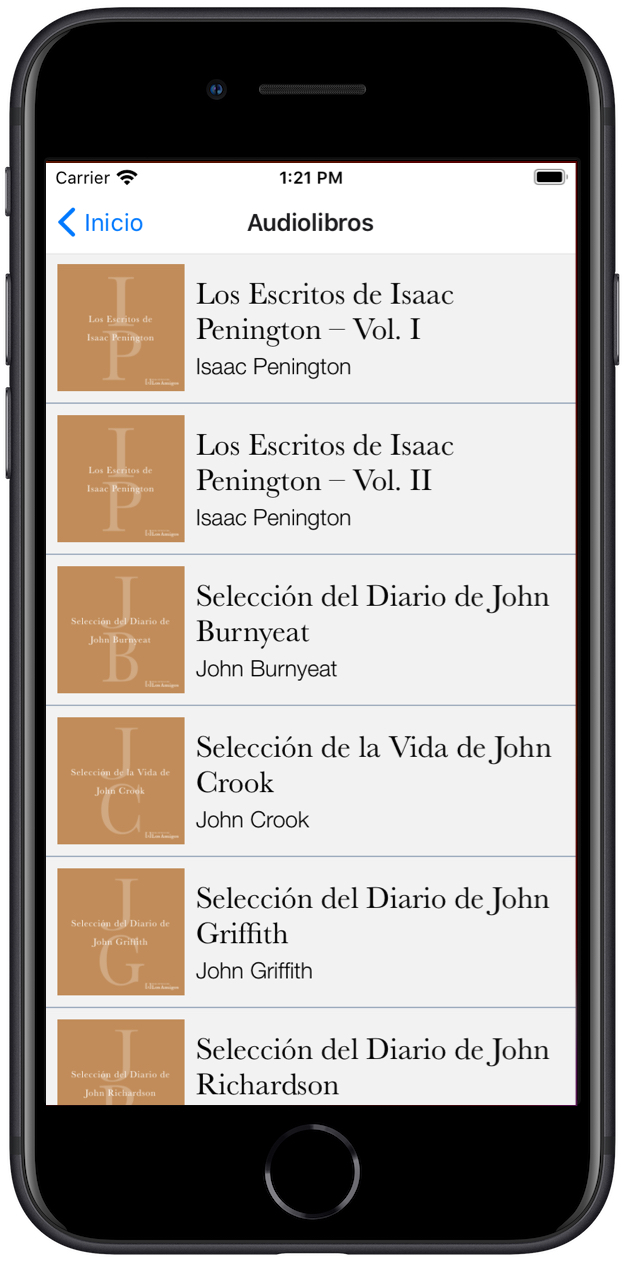
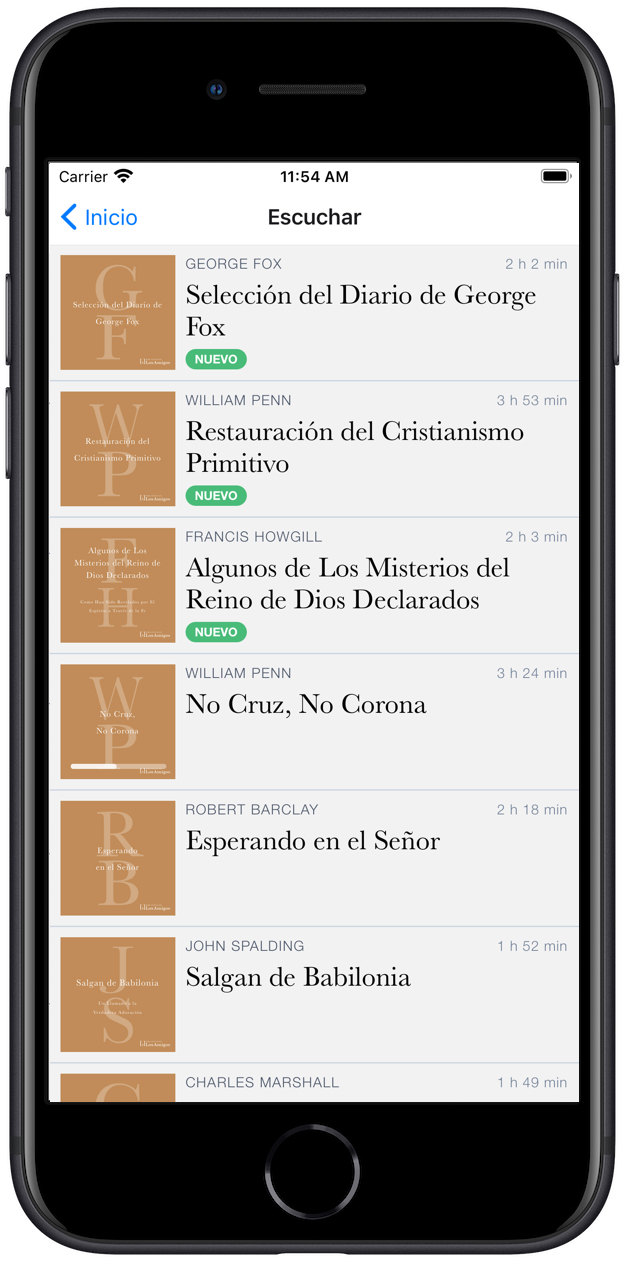
release app v2.0.0 text (#75)

diff --git a/src/pages/app.tsx b/src/pages/app.tsx
@@ -18,12 +18,19 @@ interface Screenshot {
 interface Props {
   data: {
     audioBooks: { totalCount: number };
+    allBooks: { totalCount: number };
     splashEn: Screenshot;
     splashEs: Screenshot;
     audioEn: Screenshot;
     audioEs: Screenshot;
     audioListEn: Screenshot;
     audioListEs: Screenshot;
+    homeEn: Screenshot;
+    homeEs: Screenshot;
+    readEn: Screenshot;
+    readEs: Screenshot;
+    ebookEn: Screenshot;
+    ebookEs: Screenshot;
   };
 }
 
@@ -41,43 +48,64 @@ const AppPage: React.FC<Props> = ({ data }) => {
       </BooksBgBlock>
       <div className="p-10 flex flex-col items-center md:py-16">
         <Dual.H2 className="text-flgray-900 text-3xl tracking-widest mb-6">
-          <>Now available for iOS and Android</>
-          <>Ya se encuentra disponible en iOS y Android</>
+          <>Available for iOS and Android</>
+          <>Disponible en iOS y Android</>
         </Dual.H2>
         <Dual.P className="body-text text-xl pb-8 max-w-screen-md leading-loose">
           <>
-            <b>November 12, 2020</b> &mdash; Friends Library now has iPhone and Android
-            apps available for free on the Apple App Store and Google Play Store. Use one
-            of the links below to download the right app for your phone or device.
+            <span className="bg-green-600 text-white rounded-full font-sans uppercase text-xs px-2 py-0 inline-block mr-2 transform -translate-y-1">
+              Update
+            </span>
+            <b>June 28, 2021</b> &mdash; The Friends Library App <b>version 2</b> has been
+            released. New in this release is the ability to <b>read</b> all of our
+            published books <em>from directly within the app.</em>
           </>
           <>
-            <b>Noviembre 12, 2020</b> &mdash; La Biblioteca de los Amigos ahora tiene una
-            aplicación gratuita disponible en la App Store y en Google Play Store. Haz
-            clic en uno de los enlaces a continuación para descargar la aplicación que
-            corresponda a tu teléfono o dispositivo.
+            <span className="bg-green-600 text-white rounded-full font-sans uppercase text-xs px-2 py-0 inline-block mr-2 transform -translate-y-1">
+              Actualización
+            </span>
+            <b>Junio 28, 2021</b> &mdash; Ya está disponible la <b>Versión 2.0</b> de la
+            Aplicación de la Biblioteca de los Amigos. Ahora todos los libros que tenemos
+            publicados se pueden <em>leer directamente en la aplicación.</em>
+          </>
+        </Dual.P>
+        <Dual.P className="body-text text-xl pb-8 max-w-screen-md leading-loose">
+          <>
+            The Friends Library app is available for free on both <b>iOS</b> and{` `}
+            <b>Android</b> in the Apple App Store and Google Play Store. Use one of the
+            links below to download the right app for your phone or device.
+          </>
+          <>
+            La Biblioteca de los Amigos ahora tiene una aplicación gratuita disponible en
+            la <b>App Store</b> y en <b>Google Play Store.</b> Haz clic en uno de los
+            enlaces a continuación para descargar la aplicación que corresponda a tu
+            teléfono o dispositivo.
           </>
         </Dual.P>
         <div className="max-w-xs sm:max-w-lg px-6 flex flex-col sm:flex-row space-y-6  sm:space-y-0 sm:space-x-8 items-center mb-10">
           <AppBadges.Ios />
           <AppBadges.Android />
         </div>
-        <Dual.H3 className="text-flgray-900 text-2xl tracking-widest mb-6">
+        <Dual.H3 className="text-flgray-900 text-2xl tracking-widest mb-6 mt-6">
           <>
-            Easier <span className="underline">audiobooks</span> now, with more to come
-            soon!
+            Easy to use <span className="underline inline-block pr-1">audiobooks</span>
+            ...
           </>
-          <>¡Ahora es más fácil escuchar los audios, y pronto habrá más disponibles!</>
+          <>
+            Es muy fácil escuchar{` `}
+            <span className="underline inline-block pr-1">audiolibros</span> ...
+          </>
         </Dual.H3>
         <Dual.P className="body-text pb-12 max-w-screen-md leading-loose">
           <>
             Friends Library currently has {data.audioBooks.totalCount} titles recorded as
             audiobooks, with more being added regularly. Unfortunately, downloading and
-            listening to our audiobooks directly from this website is quite difficult,
-            even for knowledgeable users. The first version of our iPhone and Android apps
-            are focused on making it super easy to download and listen to any of our
-            audiobooks, wherever you are. Just select an audiobook from the list and press
-            play. You can download whole books while you&rsquo;re connected to Wifi, and
-            listen to them conveniently later when you may or may not have internet.
+            listening to our audiobooks <em>directly from this website</em> is quite
+            difficult, even for knowledgeable users. The Friends Library App makes it
+            super easy to download and listen to any of our audiobooks, wherever you are.
+            Just select an audiobook from the list and press play. You can download entire
+            audiobooks while you&rsquo;re connected to Wifi and listen to them
+            conveniently later when you may or may not have internet.
           </>
           <>
             Actualmente, La Biblioteca de los Amigos tiene {data.audioBooks.totalCount}
@@ -85,10 +113,9 @@ const AppPage: React.FC<Props> = ({ data }) => {
             libros grabados en forma de Audiolibros, y ese número seguirá creciendo.
             Desafortunadamente, descargar y escuchar nuestros audiolibros directamente
             desde este sitio web puede ser difícil, incluso para usuarios con cierto
-            conocimiento. El objetivo principal de esta primera versión de nuestra
-            aplicación (disponible en Iphone y Android) es hacer que sea muy sencillo
-            descargar y escuchar cualquiera de nuestros audiolibros, sin importar donde
-            estés. Solo tienes que seleccionar un audiolibro de la lista y darle a
+            conocimiento. La Aplicación de la Biblioteca de Los Amigos hace que sea
+            demasiado fácil descargar y escuchar cualquiera de nuestros audiolibros, donde
+            sea que estés. Solo tienes que seleccionar un audiolibro de la lista y darle a
             reproducir. Puedes descargar libros enteros mientras estés conectado a un
             Wifi, y escucharlos luego a tu conveniencia, sin conexión de internet.
           </>
@@ -105,20 +132,67 @@ const AppPage: React.FC<Props> = ({ data }) => {
             <Image className="w-48" fluid={data.audioListEs.image.fluid} alt="" />
           </>
         </Dual.Div>
-        <Dual.P className="body-text pb-12 max-w-screen-md leading-loose">
+        <Dual.H3 className="text-flgray-900 text-2xl tracking-widest mb-6">
           <>
-            In the future, we plan to add a number of useful features to the app, all with
-            the goal of making it easier for everyone to find, listen, read and benefit
-            from these invaluable writings. It is our hope that many would be encouraged
-            to faithfully and fervently follow in the footsteps of these exemplary men and
-            women who ran well and fought the good fight, leaving us many precious
-            testimonies of lives fully surrendered to the grace, light and spirit of our
-            Lord Jesus Christ.
+            <span className="pr-1">...</span>or <span className="underline">read</span>
+            {` `}
+            any of our books, right in the app.
           </>
           <>
-            En el futuro, planeamos añadirle a la aplicación unas cuántas funciones muy
-            útiles, todas con el objetivo de hacer que sea más sencillo para todos
-            encontrar, escuchar, leer y beneficiarse de estos invaluables escritos.
+            <span className="pr-1">...</span>o <span className="underline">leer</span>
+            {` `}
+            cualquiera de nuestros libros, directamente en la aplicación.
+          </>
+        </Dual.H3>
+        <Dual.P className="body-text pb-12 max-w-screen-md leading-loose">
+          <>
+            Every single one of our {data.allBooks.totalCount} books can be conveniently
+            read in electronic form, from right within the Friends Library app. The built
+            in e-reader allows customization of the color scheme and font size, and will
+            keep your position in as many books as you&rsquo;re reading, allowing you to
+            easily pick up where you left off. Plus, every new book we add, and every
+            error we fix in any of our published texts will automatically be downloaded
+            and synced in your app, so you&rsquo;ll always be up to date.
+          </>
+          <>
+            Cada uno de nuestros {data.allBooks.totalCount} libros se puede leer
+            cómodamente en formato electrónico dentro de la aplicación de la Biblioteca de
+            Los Amigos. El lector electrónico integrado permite la configuración de la
+            combinación de colores y del tamaño de la letra, y guardará el punto donde
+            quedaste en todos los libros que estés leyendo, haciendo que sea más fácil
+            para ti retomar la lectura desde donde la dejaste. Además, cada libro nuevo
+            que agreguemos, y cada error que corrijamos en alguno de nuestros textos
+            publicados, se descargará y sincronizará automáticamente en tu aplicación, así
+            que siempre estarás al día.
+          </>
+        </Dual.P>
+        <Dual.Div className="flex space-x-4 mb-10">
+          <>
+            <Image className="w-48" fluid={data.homeEn.image.fluid} alt="" />
+            <Image className="w-48" fluid={data.readEn.image.fluid} alt="" />
+            <Image className="w-48" fluid={data.ebookEn.image.fluid} alt="" />
+          </>
+          <>
+            <Image className="w-48" fluid={data.homeEs.image.fluid} alt="" />
+            <Image className="w-48" fluid={data.readEs.image.fluid} alt="" />
+            <Image className="w-48" fluid={data.ebookEs.image.fluid} alt="" />
+          </>
+        </Dual.Div>
+
+        <Dual.P className="body-text pb-12 max-w-screen-md leading-loose">
+          <>
+            In the future, we plan to continue to add a number of useful features to the
+            app, all with the goal of making it easier for everyone to find, listen, read
+            and benefit from these invaluable writings. It is our hope that many would be
+            encouraged to faithfully and fervently follow in the footsteps of these
+            exemplary men and women who ran well and fought the good fight, leaving us
+            many precious testimonies of lives fully surrendered to the grace, light and
+            Spirit of our Lord Jesus Christ.
+          </>
+          <>
+            En el futuro, planeamos seguir añadiéndole a la aplicación unas cuántas
+            funciones muy útiles, todas con el objetivo de hacer que sea más sencillo para
+            todos encontrar, escuchar, leer y beneficiarse de estos invaluables escritos.
             Tenemos la esperanza de que muchos se animen a seguir fiel y fervientemente
             las pisadas de estos ejemplares hombres y mujeres que corrieron bien y
             pelearon la buena batalla, dejándonos muchos testimonios preciosos de vidas
@@ -169,8 +243,53 @@ export default AppPage;
 
 export const query = graphql`
   query AppPage {
+    allBooks: allDocument {
+      totalCount
+    }
     audioBooks: allDocument(filter: { hasAudio: { eq: true } }) {
       totalCount
+    }
+    readEn: file(relativePath: { eq: "app-screens/app-read.en.jpg" }) {
+      image: childImageSharp {
+        fluid(quality: 90, maxHeight: 400) {
+          ...GatsbyImageSharpFluid_withWebp
+        }
+      }
+    }
+    readEs: file(relativePath: { eq: "app-screens/app-read.es.jpg" }) {
+      image: childImageSharp {
+        fluid(quality: 90, maxHeight: 400) {
+          ...GatsbyImageSharpFluid_withWebp
+        }
+      }
+    }
+    ebookEn: file(relativePath: { eq: "app-screens/app-ebook.en.jpg" }) {
+      image: childImageSharp {
+        fluid(quality: 90, maxHeight: 400) {
+          ...GatsbyImageSharpFluid_withWebp
+        }
+      }
+    }
+    ebookEs: file(relativePath: { eq: "app-screens/app-ebook.es.jpg" }) {
+      image: childImageSharp {
+        fluid(quality: 90, maxHeight: 400) {
+          ...GatsbyImageSharpFluid_withWebp
+        }
+      }
+    }
+    homeEn: file(relativePath: { eq: "app-screens/app-home.en.jpg" }) {
+      image: childImageSharp {
+        fluid(quality: 90, maxHeight: 400) {
+          ...GatsbyImageSharpFluid_withWebp
+        }
+      }
+    }
+    homeEs: file(relativePath: { eq: "app-screens/app-home.es.jpg" }) {
+      image: childImageSharp {
+        fluid(quality: 90, maxHeight: 400) {
+          ...GatsbyImageSharpFluid_withWebp
+        }
+      }
     }
     splashEn: file(relativePath: { eq: "app-screens/app-splash.en.jpg" }) {
       image: childImageSharp {

diff --git a/src/build/news-feed.ts b/src/build/news-feed.ts
@@ -138,6 +138,22 @@ function getOutOfBandEvents(
 ): (FeedItem & { lang: Lang[] })[] {
   return [
     {
+      lang: [`en`],
+      type: `feature`,
+      title: `Friends Library App version 2.0 Released`,
+      description: `The new version allows you to <em>read</em> any of our published books, right within the app.`,
+      ...dateFields(`2021-06-28T16:43:48.053Z`, formatter, `en`),
+      url: `/app`,
+    },
+    {
+      lang: [`es`],
+      type: `feature`,
+      title: `¡Hemos lanzado la versión 2.0 de la Aplicación de la Biblioteca de los Amigos!`,
+      description: `En la nueva versión los libros que tenemos publicados se pueden <em>leer</em> directamente en la aplicación.`,
+      ...dateFields(`2021-06-28T16:43:48.053Z`, formatter, `es`),
+      url: `/app`,
+    },
+    {
       lang: [`es`],
       type: `chapter`,
       title: `Historia de los Cuáqueros &mdash; (Capítulo 9)`,

diff --git a/gatsby-config.js b/gatsby-config.js
@@ -5,7 +5,7 @@ const { numPublishedBooks } = require(`@friends-library/friends/query`);
 const LANG = process.env.GATSBY_LANG === `es` ? `es` : `en`;
 
 module.exports = {
-  flags: { PRESERVE_WEBPACK_CACHE: true },
+  flags: { PRESERVE_WEBPACK_CACHE: true, FAST_DEV: true },
   siteMetadata: {
     siteUrl:
       LANG === `en`
